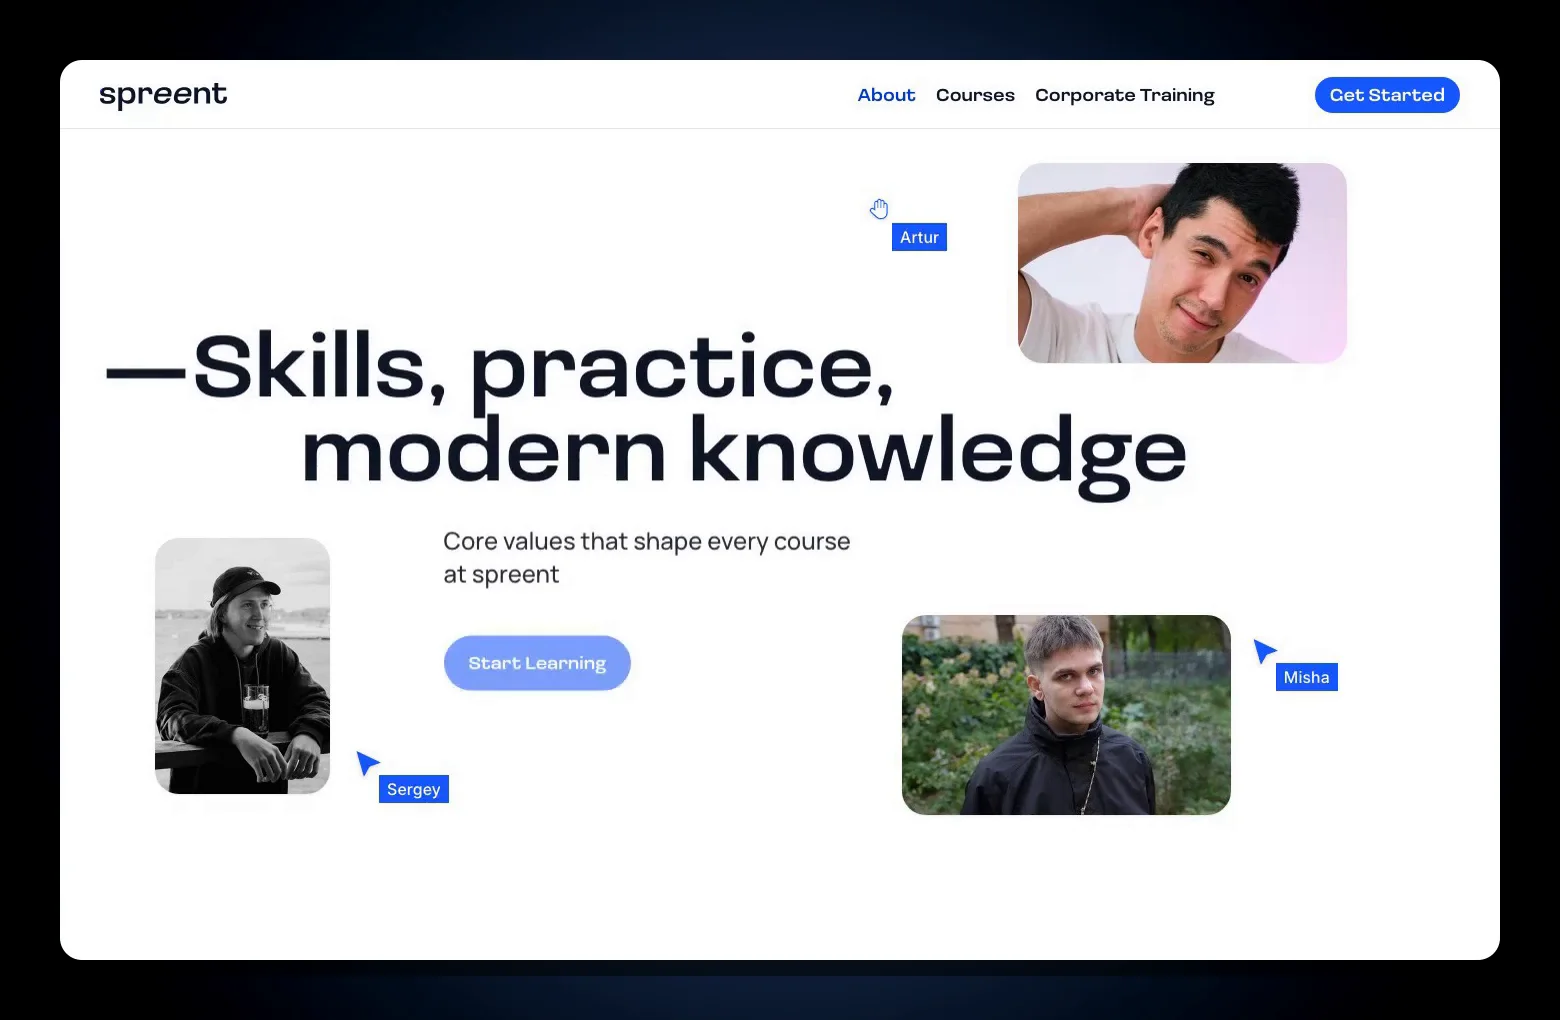
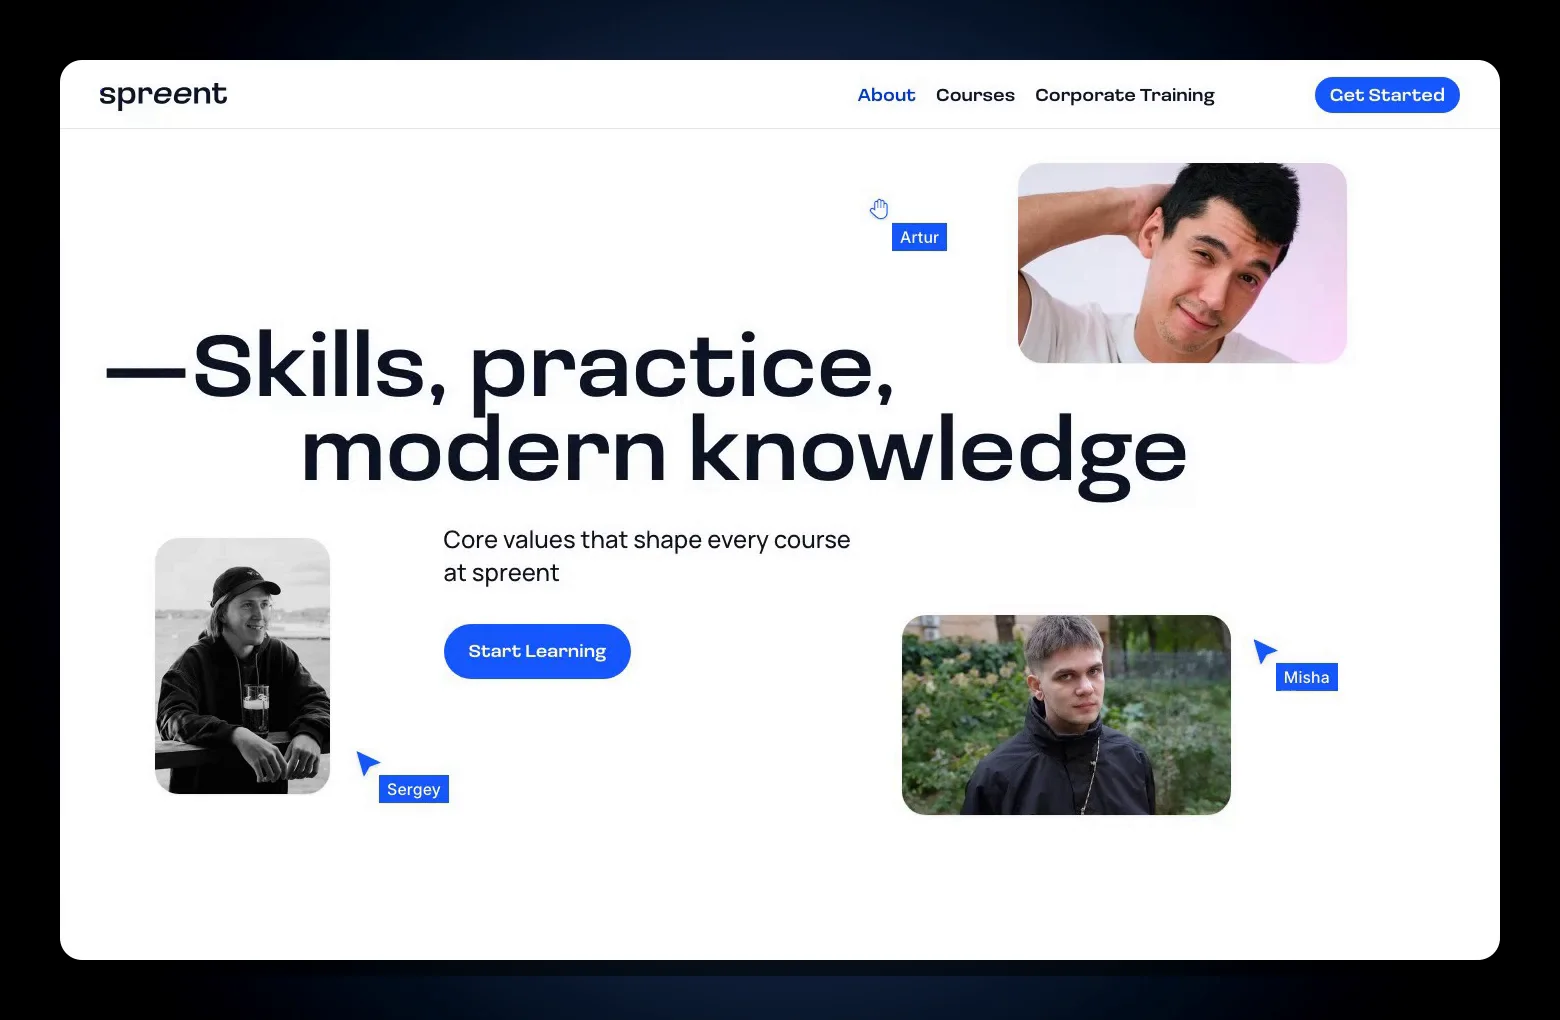
refactor: audit motion tokens and standardize easing, and document interaction physics in UI Kit

diff --git a/src/sass/pages/ui-kit.scss b/src/sass/pages/ui-kit.scss
@@ -9,12 +9,13 @@
 }
 
 .ui-kit {
+  overflow-x: clip;
   padding-top: 40px;
   padding-bottom: 80px;
 }
 
 // ---------------------------------
-// Table of contents (sticky sidebar + scroll-spy)
+// Table of contents (sticky sidebar on desktop, chips on mobile + scroll-spy)
 // ---------------------------------
 
 .ui-kit__container {
@@ -25,21 +26,30 @@
   @include fluid-val(gap, 40px, 80px, 1024, 1440);
 
   @include vp-1023 {
-    display: block; // single column — TOC hidden, sections read top-to-bottom
+    display: block;
   }
 }
 
 .ui-kit__toc {
   position: sticky;
-  top: 90px; // clears the sticky site header
+  top: 40px;
 
-  @include hide-below-desktop;
+  @include vp-1023 {
+    position: static;
+    margin-bottom: 40px;
+  }
 }
 
 .ui-kit__toc-list {
   display: flex;
   flex-direction: column;
   gap: 4px;
+
+  @include vp-1023 {
+    flex-direction: row;
+    flex-wrap: wrap;
+    gap: 8px 10px;
+  }
 }
 
 .ui-kit__toc-link {
@@ -59,12 +69,26 @@
     color: $color-text-main;
     background-color: $color-light;
   }
-}
 
-.ui-kit__toc-link.is-active {
-  border-color: $color-blue;
-  color: $color-blue;
-  font-weight: $font-weight-semibold;
+  @include vp-1023 {
+    padding: 6px 14px;
+    border-left: none;
+    border: $border-width-1 solid $color-stroke;
+    border-radius: $radius-pill;
+    background-color: $color-white;
+  }
+
+  &[aria-current="location"],
+  &.is-active {
+    border-color: $color-blue;
+    color: $color-blue;
+    font-weight: $font-weight-semibold;
+
+    @include vp-1023 {
+      border-color: $color-blue;
+      background-color: $color-light;
+    }
+  }
 }
 
 // Content column — min-width: 0 lets inner overflow-x containers (motion table) shrink
@@ -99,6 +123,7 @@
 
 .ui-kit__section {
   margin-bottom: 70px;
+  scroll-margin-top: 40px;
 }
 
 .ui-kit__section-title {
@@ -467,7 +492,7 @@
 }
 
 // ---------------------------------
-// Motion catalog
+// Motion catalog & physics tokens
 // ---------------------------------
 
 .ui-kit__motion-intro {
@@ -476,6 +501,67 @@
   max-width: 720px;
   margin-bottom: 30px;
   color: $color-text-secondary;
+}
+
+.ui-kit__motion-tokens {
+  display: grid;
+  grid-template-columns: repeat(auto-fit, minmax(280px, 1fr));
+  gap: 24px;
+  margin-bottom: 24px;
+}
+
+.ui-kit__motion-token-card {
+  padding: 24px;
+  border: $border-width-1 solid $color-stroke;
+  border-radius: $radius-16;
+  background-color: $color-light;
+}
+
+.ui-kit__motion-token-list {
+  display: flex;
+  flex-direction: column;
+  gap: 16px;
+}
+
+.ui-kit__motion-token-row {
+  display: flex;
+  flex-direction: column;
+  gap: 6px;
+  padding-bottom: 14px;
+  border-bottom: $border-width-1 solid $color-stroke;
+
+  &:last-child {
+    padding-bottom: 0;
+    border-bottom: none;
+  }
+}
+
+.ui-kit__motion-token-name {
+  @include ui-kit-mono;
+
+  color: $color-blue;
+  font-weight: $font-weight-semibold;
+}
+
+.ui-kit__motion-token-details {
+  display: flex;
+  flex-direction: column;
+  align-items: flex-start;
+  gap: 4px;
+}
+
+.ui-kit__motion-token-role {
+  @include text-small;
+
+  color: $color-text-secondary;
+}
+
+.ui-kit__motion-note {
+  margin-bottom: 40px;
+}
+
+.ui-kit__motion-table-title {
+  margin-bottom: 20px;
 }
 
 .ui-kit__link {

diff --git a/src/sass/global/variables.scss b/src/sass/global/variables.scss
@@ -184,19 +184,20 @@ $shadow-glass-rect-mobile: -59.64px 59.64px 71.57px -11.93px rgb(3, 13, 39, 0.3)
 // ---------------------------------
 // Transitions
 // ---------------------------------
-$transition-fast: 0.2s;
-$transition-base: 0.3s;
-$transition-medium: 0.4s;
-$transition-slow: 0.5s;
-$ease-default: ease;
-$ease-out: cubic-bezier(0, 0, 0.2, 1);
-$ease-in-out-sine: cubic-bezier(0.45, 0, 0.55, 1); // For light rocking
-$ease-smooth: cubic-bezier(0.65, 0, 0.35, 1); // Very smooth start and end
-$ease-in: cubic-bezier(0.4, 0, 1, 1);           // Gentle start, accelerates — for closing/exit
-$ease-out-expo: cubic-bezier(0.16, 1, 0.3, 1); // Fast start, very soft slowdown
-$ease-material: cubic-bezier(0.4, 0, 0.2, 1);  // Material Design standard easing
-$ease-spring: cubic-bezier(0.34, 1.56, 0.64, 1); // Overshoot spring — tactile press feedback
-$ease-apple: cubic-bezier(0.19, 1, 0.22, 1); // Apple-style easing: fast start, soft slowdown
+// Duration scale — four steps, 100ms apart.
+$transition-fast: 0.2s;   // state change: hover, focus, active press
+$transition-base: 0.3s;   // ceiling for interface transitions
+$transition-medium: 0.4s; // reveals & staggered sequences
+$transition-slow: 0.5s;   // the slowest reveal variant (scale-in)
+
+// Easing curves — deliberately four. Entering UI never uses ease-in
+// (a slow start reads as lag); asymmetry lives in duration, not in the curve.
+$ease-default: ease;                              // browser default — only inside $transition-default
+$ease-out: cubic-bezier(0, 0, 0.2, 1);            // standard UI — the everyday curve
+$ease-out-expo: cubic-bezier(0.16, 1, 0.3, 1);    // strong deceleration — reveals, drawer, brand motion
+$ease-spring: cubic-bezier(0.34, 1.56, 0.64, 1);  // overshoot — tactile press feedback
+
+// Shorthand (duration + curve), not a duration token — the project's default transition.
 $transition-default: $transition-base $ease-default;
 
 

diff --git a/tests/e2e/visual.spec.ts b/tests/e2e/visual.spec.ts
@@ -13,7 +13,16 @@ test.beforeEach(async ({ page }) => {
  * Settles a page for a stable screenshot: waits for network to go idle, then scrolls to
  * the footer so the lazily-imported intl-tel-input loads (it inits on IntersectionObserver),
  * waits for its wrapper, and returns to the top. The style tag kills any residual CSS
- * animation/transition (belt-and-suspenders on top of Playwright's animations:'disabled').
+ * animation/transition (belt-and-suspenders on top of Playwright's animations:'disabled')
+ * and neutralises the scrollbar.
+ *
+ * Why the scrollbar matters: `pages.scss` sets `scrollbar-gutter: stable`, which reserves
+ * 15px ONLY when macOS is in classic-scrollbar mode. With `AppleShowScrollBars` unset
+ * (the default "Automatic"), macOS switches to classic scrollbars as soon as a MOUSE is
+ * plugged in — so the layout width silently flips 480 -> 465 / 1440 -> 1425 and headings
+ * re-wrap, making the whole baseline depend on the peripherals attached to the machine.
+ * Zeroing the scrollbar here pins the layout to the full viewport width, which is also the
+ * truthful mobile rendering (phones use overlay scrollbars).
  */
 const settle = async (page: Page): Promise<void> => {
   await page.waitForLoadState("networkidle");
@@ -24,7 +33,9 @@ const settle = async (page: Page): Promise<void> => {
     content: `*, *::before, *::after {
       animation: none !important;
       transition: none !important;
-    }`,
+    }
+    html { scrollbar-gutter: auto !important; }
+    ::-webkit-scrollbar { width: 0 !important; height: 0 !important; }`,
   });
   // Wait for web fonts so late glyph swaps don't shift text between stabilization frames.
   await page.evaluate(async () => {

diff --git a/src/sass/components/logo.scss b/src/sass/components/logo.scss
@@ -75,8 +75,13 @@
       transparent 50%,
       transparent 100%);
 
-    transform: translateX(-50%); // coloured half parked off to the left = hidden
-    transition: transform 0.9s $ease-apple;
+    // Parked off to the left = hidden. Not exactly -50%: the 105deg gradient makes
+    // the colour/transparent boundary a DIAGONAL, so it swings ±(height·tan15°)/2
+    // horizontally — 3.75px on the 28px header logo. At a flush -50% that overshoot
+    // pokes past the mask edge and a sliver of colour shows at rest. The extra 3%
+    // (~8px) clears it; the same value covers the footer, which shares the aspect ratio.
+    transform: translateX(-53%);
+    transition: transform 0.9s $ease-out-expo;
   }
 }
 
@@ -107,7 +112,7 @@
       transparent 50%,
       transparent 100%);
 
-    transition: transform 1.1s $ease-apple;
+    transition: transform 1.1s $ease-out-expo;
   }
 }
 

diff --git a/src/sass/components/btn.scss b/src/sass/components/btn.scss
@@ -29,7 +29,7 @@
   transition:
     color $transition-default,
     background-color $transition-default,
-    transform $transition-fast $ease-apple;
+    transform $transition-fast $ease-out-expo;
 
   // Shadow-lift layer — we fade its OPACITY (composited) instead of animating
   // box-shadow. Colour of the shadow is set per-variant below.
@@ -40,7 +40,7 @@
     border-radius: inherit;
     opacity: 0;
     pointer-events: none;
-    transition: opacity $transition-default $ease-apple;
+    transition: opacity $transition-default $ease-out-expo;
   }
 
   &:focus-visible {

diff --git a/src/sass/blocks/main-nav.scss b/src/sass/blocks/main-nav.scss
@@ -52,7 +52,7 @@
     background-color: $color-dark;
     transform: scaleX(0);
     transform-origin: left;
-    transition: transform $transition-medium $ease-in-out-sine;
+    transition: transform $transition-medium $ease-out-expo;
   }
 
   @include hover {

diff --git a/src/sass/blocks/footer.scss b/src/sass/blocks/footer.scss
@@ -380,7 +380,7 @@
   transition:
     color $transition-default,
     background-color $transition-default,
-    transform $transition-fast $ease-apple,
+    transform $transition-fast $ease-out-expo,
     box-shadow $transition-default;
 
   &::before {
